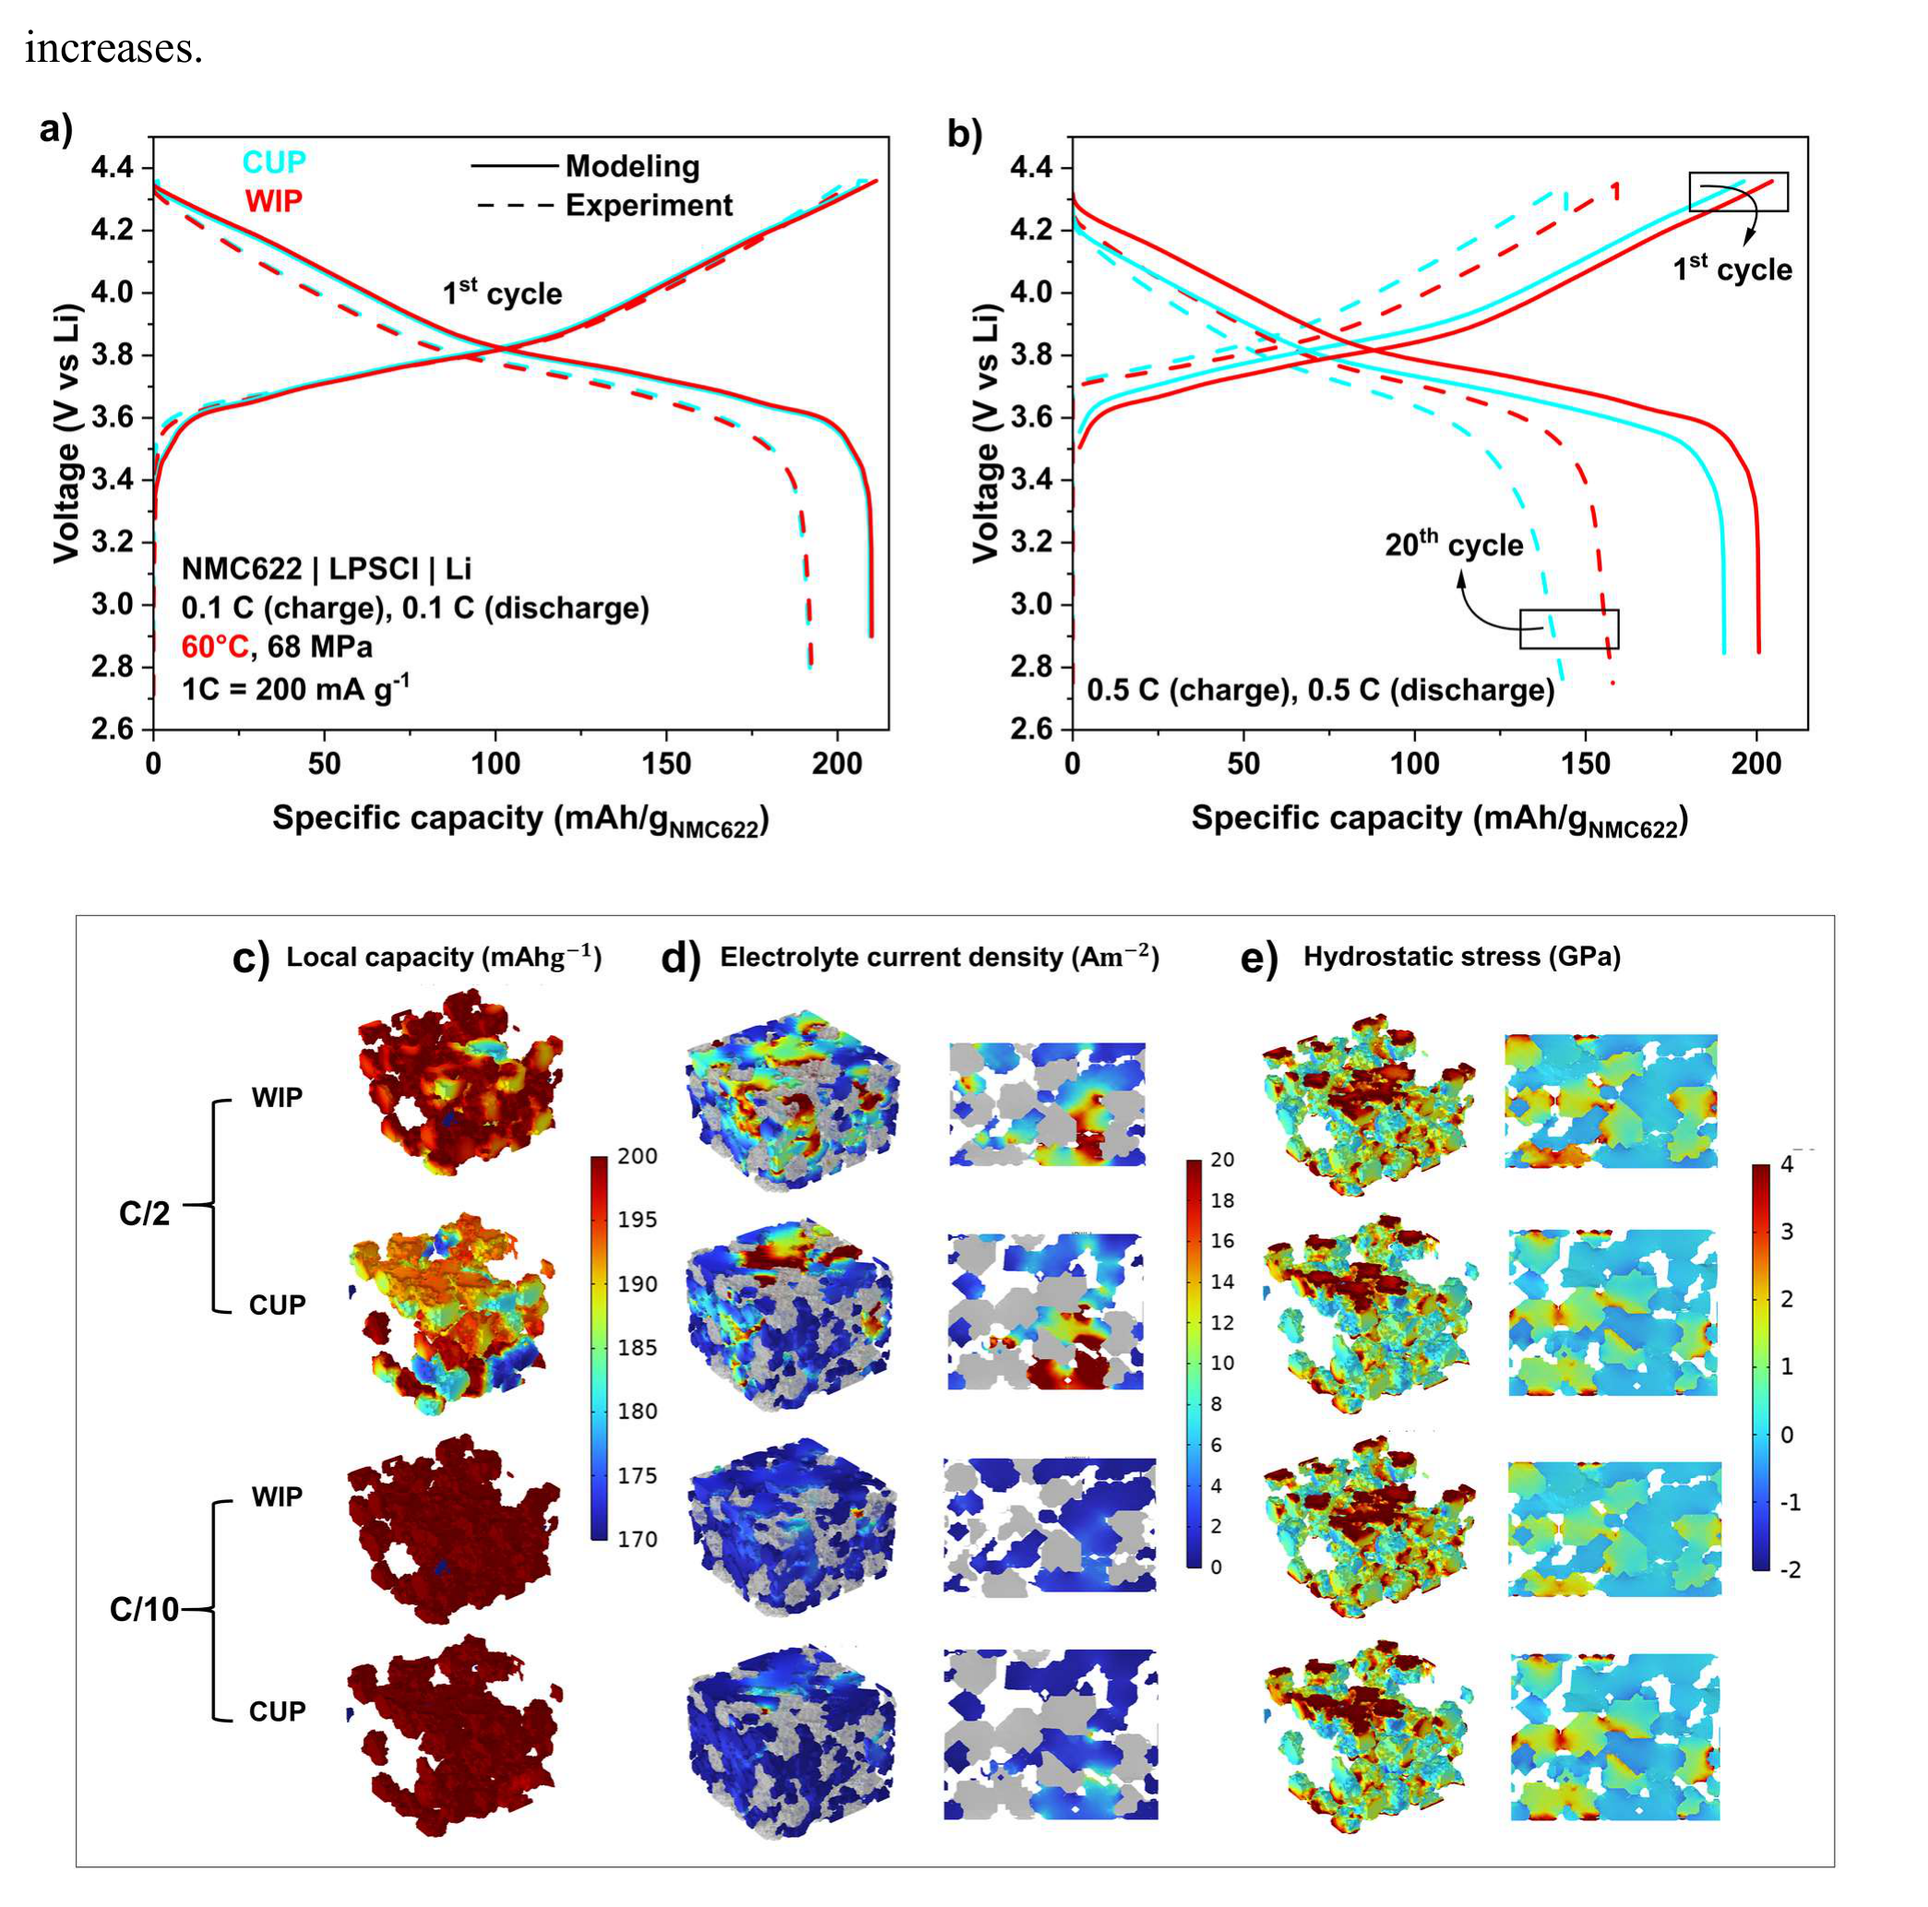
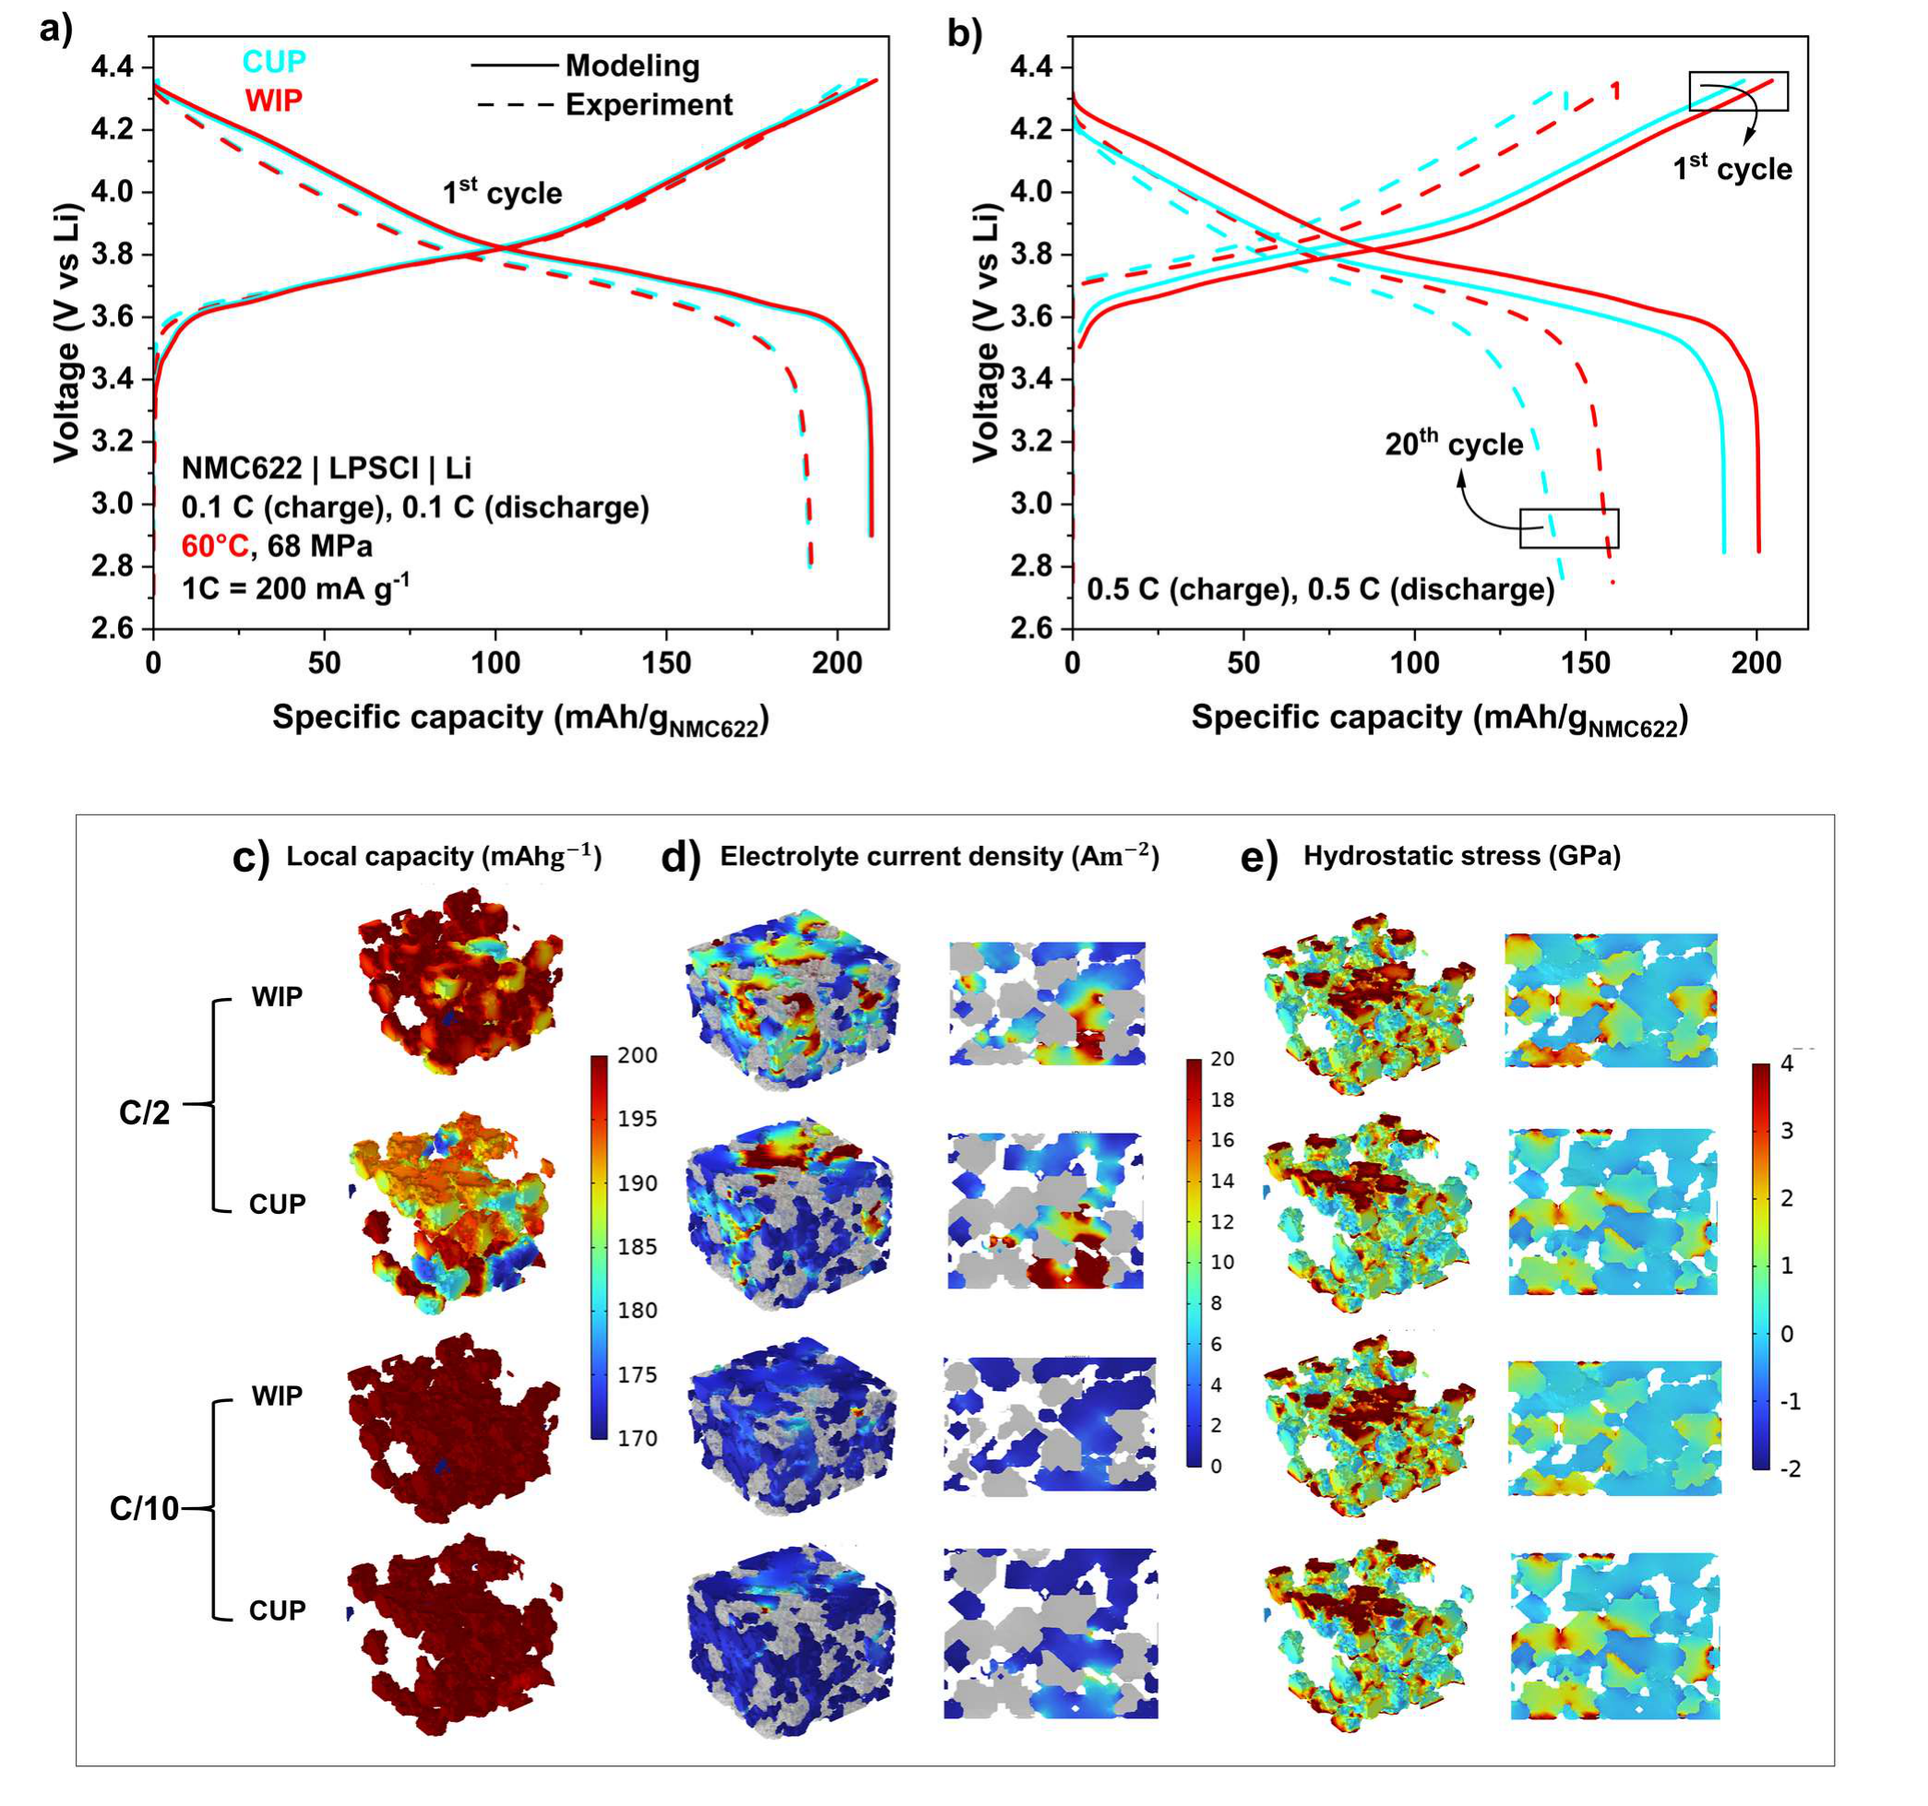
litdb: benhadjali2026 크롭 고침 — tab_1 = 9 · 10 쪽 이어 붙여 CUP · WIP 행 넣음 (manual_crop) · fig_8 위쪽 본문 낱말 잘라냄 (recrop) · 카드 크롭 설명 두 줄
Claude-Session: https://claude.ai/code/session_01H191Ni4xzj9H5ftstAm7Ft

diff --git a/litdb/papers/benhadjali2026_wip_vs_cup_pressing_assb_cathode_dem.md b/litdb/papers/benhadjali2026_wip_vs_cup_pressing_assb_cathode_dem.md
@@ -5,7 +5,7 @@
      값 표지: [인쇄] = 본문 · 표 · 그림 안에 숫자로 적힌 값 · [판독] = 그림에서 읽은 값 (figure-read ≈ · 경향용 · 정밀도는 그 자리에) ·
      [우리 산술] = 인쇄값으로 우리가 다시 한 계산 (인용 불가) · [추정] = 우리 해석 · [미확인] = 48 쪽 전수에 없음.
      ⚠ SI · 보충 영상은 이 PDF 에 없다 — 본문이 가리키는 Table S1 (DEM 힘장) · S2 (재료 물성) · S3 (수치 매개변수) · Figure S1–S4 · Video 1–4 는 전부 [미확인].
-     그림 8 장 · 표 3 장 크롭 전부 렌더로 열람 (fig_6 = 손 재크롭 판 · tab_1 크롭은 머리 + 미가압 행뿐 — CUP · WIP 행은 p.10 글자 층에서 옮김) ·
+     그림 8 장 · 표 3 장 크롭 전부 렌더로 열람 (fig_6 = 손 재크롭 판 · tab_1 = 처음 크롭은 머리 + 미가압 행뿐이라 CUP · WIP 행을 p.10 글자 층에서 옮겼고, 11-06 메인 세션이 9 · 10 쪽을 이어 붙여 다시 만들었다 (figures.json `manual_crop`) · fig_8 위쪽 본문 낱말도 잘라냄 (`recrop`)) ·
      식 (1)–(3) · (8) · (12)–(24) 는 PDF 쪽 렌더로 확인 (글자 층은 위 · 아래 첨자를 잃는다).  업로드 PDF 는 읽기만 했다. -->
 
 # 온간 등방 가압 (WIP · 400 MPa · 80 °C · 5 min) vs 냉간 단축 가압 (CUP · ≈116 MPa · 상온 · 30 s) 한 습식 NMC622 : LPSCl : 탄소-바인더 69 : 27.6 : 3.4 양극 — 실험 (게이지 두께 −26 vs −12 % · 보고 기공률 10.9 vs 25.1 % · 60 °C C/2 방전 +≈15 mAh/g [판독]) 을 Franco 그룹 CGMD-DEM 제조 사슬 (LAMMPS · LJ 점착 + 입자 탄성 접촉 · 슬러리 → 건조 → 변위제어 가압 · 유지 · 제하) 과 COMSOL 3D 기계-전기화학 FEM (선형 탄성 + 리튬 고유변형 · 응력 의존 화학 퍼텐셜 · 68 MPa 경계) 으로 잇다 — 모델의 C/2 차이는 수송 불균일에서 나오고 정수압 응력 지도 차이는 작다 · ⚠ 모델의 'WIP' = 같은 물성 · 같은 z 방향 변위의 **더 깊은 목표 (30 vs 20 %) + 4 ms 유지** (등방 하중 · 온도 의존 물성 없음) — Ben Hadj Ali⁺ · Qin⁺ · Bhutia · Weckelmann · Raijmakers · Viallet · Seznec · Dao · Franco\* (ChemRxiv 2026 프리프린트 · 비심사)
@@ -280,7 +280,7 @@
 | 6 | DEM 두께 방향 상 분율 (기공 · AM · CBD · SE) — ⚠ 패널 제목 *"a) WIP · b) CUP"* ↔ 캡션 *"(a) CUP and (b) WIP"* | ★ §10-15 판정 = 캡션이 맞다 (패널 a = CUP) · 상 분율 평균 판독 (§3-9) · 벽 근처 기공 → 1 |
 | 7 | (a) AM–SE · AM–CBD 비계면적 (b) 기공 지름별 부피 분율 (c) 유효 이온 · 전자 전도도 (d) 상대 유효 확산 + *"Tortuosity factor"* 축 (e) 기공률 (f) 두께 감소 (g) 밀도 — DEM ↔ 실험 (h) SNOW2 기공-목 망 | ★ f = D_eff/D₀ · τ 규약 대조 (§7-3) · σ_SE 함축 0.125 mS/cm · 7d 축 단위 · 이름 문제 (§10-16) |
 | 8 | (a) C/10 첫 사이클 모의 ↔ 실험 (b) C/2 모의 (첫) ↔ 실험 (20 번째) (c) 탈리튬 끝 국소 용량 (d) 탈리튬 90 % 전해질 전류 밀도 3D + 가운데 YZ 단면 (e) 탈리튬 끝 AM 정수압 응력 3D + YZ 단면 — C/2 · C/10 × WIP · CUP · 공통 색 | ★ 구조만의 율속 차 (≈11 vs 실험 ≈15 mAh/g [판독]) · 응력 '차 작다' 의 근거 = 이 그림뿐 (EM-06) · ⚠ 크롭 위쪽에 본문 한 낱말 (*"increases."*) 이 들어가 있다 (크롭은 그대로 둠) |
-| Table 1 | 두께 · 두께 감소 · 기공 · 기공 감소 (미가압 · CUP · WIP) | ⚠ 크롭 `tab_1.png` 은 머리 + 미가압 행뿐 (표가 p.9–10 에 걸침) — CUP · WIP 행은 §3-3 에 p.10 글자 층으로 옮김 |
+| Table 1 | 두께 · 두께 감소 · 기공 · 기공 감소 (미가압 · CUP · WIP) | 크롭 `tab_1.png` = 9 · 10 쪽 이어 붙인 판 (표가 p.9–10 에 걸침 · 11-06 손 작업 · figures.json `manual_crop`) · 값은 §3-3 |
 | Table 2 | 겉보기 밀도 1.59 · 1.81 · 2.20 ± 0.04–0.06 g/cm³ | §3-3 · §10-6 골격 밀도 산술 |
 | Table 3 | EIS R0 · R_int · R_ct (사이클 전 · 첫 사이클 뒤) | §3-6 · §10-9 |
 
